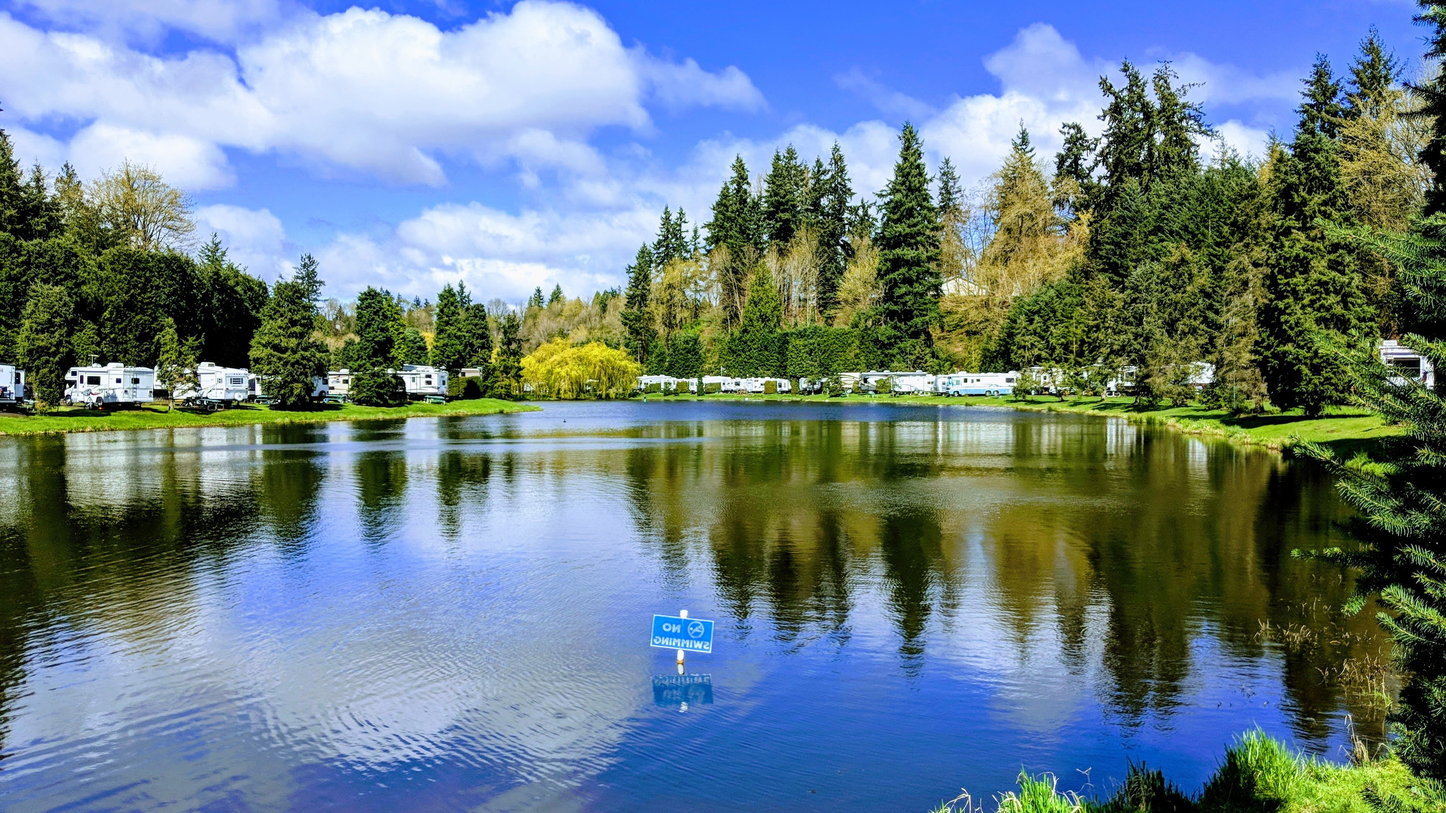
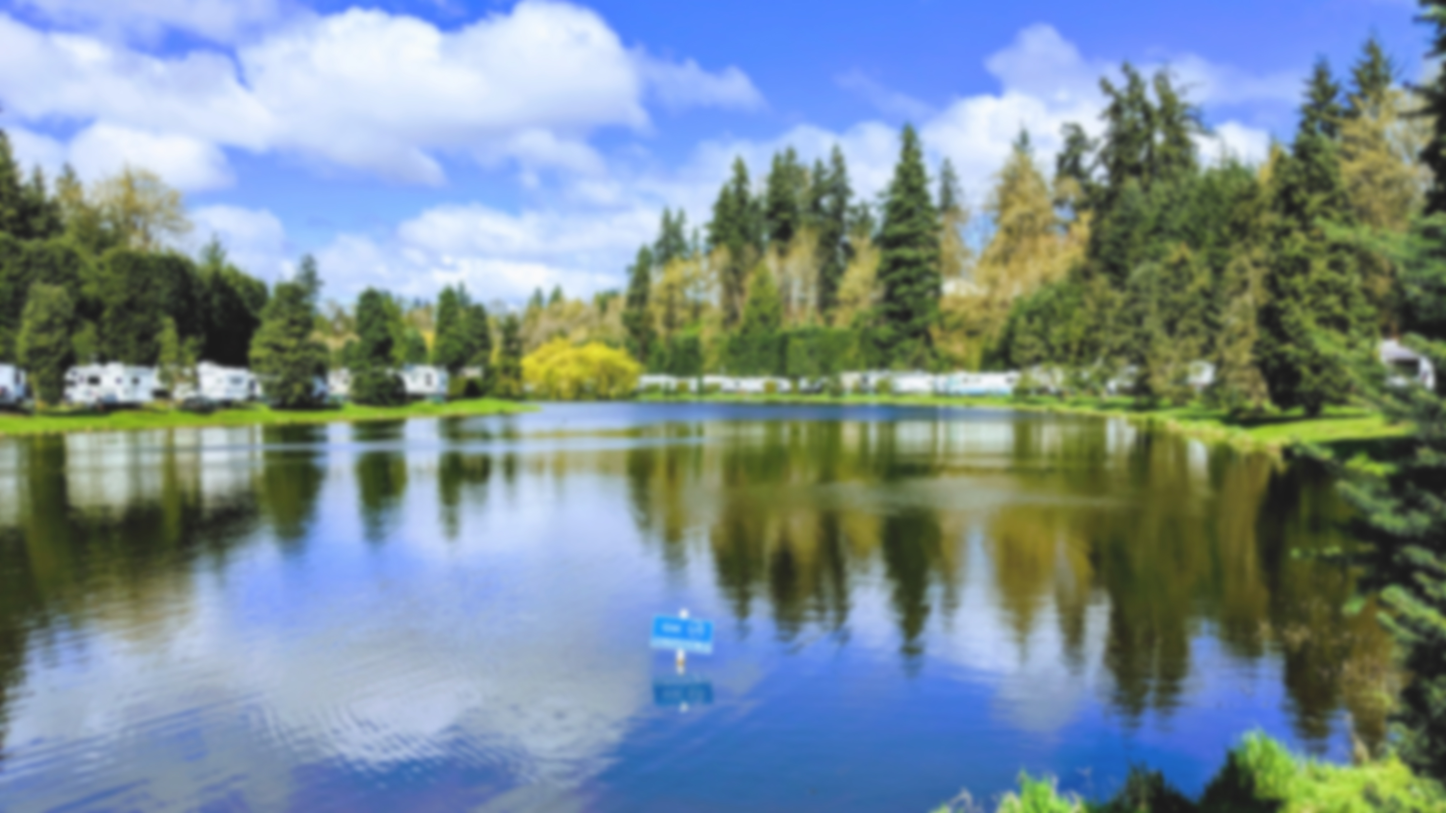
added global styles for header and changed headerbgimg to blur

diff --git a/css/global.css b/css/global.css
@@ -1,14 +1,50 @@
-/* For Header, Footer, and other global styles */
+/* For Header, Footer, font, background color, and other global styles */
 /* This includes global fonts, headings, paragraphs, etc  */
+
+/* Box sizing: border-box global reset */
+html {
+  box-sizing: border-box;
+}
+*, *:before, *:after {
+  box-sizing: inherit;
+}
+
+body {
+  margin: 0 auto;
+}
+
+body, html {
+  height: 100%;
+  margin: 0;
+}
+/* Header styles */
 header {
-    font-family: "Segoe UI", "Dejavu Sans", "Helvetica Neue", Arial, sans-serif;
-	background-color: rgba(255,255,255,.8);
-} 
+  font-family: "Segoe UI", "Dejavu Sans", "Helvetica Neue", Arial, sans-serif;
+  background-image: url("../img/headerbgimg.jpg");
+  position: center;
+  background-repeat: no-repeat;
+  background-size: cover;
+  color: white;
+  height: 100%;
+}
+
+header h1 {
+  font-size: 90px;
+  font-weight: bold;
+  font-style: italic;
+}
+
+header h2 {
+  font-size: 20px;
+  font-weight: bold;
+  font-style: italic;
+}
+
+/* Navigation Styles */
 nav {
-    font-family: "Segoe UI", "Dejavu Sans", "Helvetica Neue", Arial, sans-serif;
     font-size: 22px;
     line-height: 30px;
-    filter: drop-shadow(0 0 30px #333);
+    filter: drop-shadow(0 3 6px #333);
 }
 nav container {
     background-color: #72899E;
@@ -28,7 +64,7 @@ nav:active {
     font-weight: bold;
     line-height: 27px;
     letter-spacing: 50%;
-}  
+}
 #reservations {
     font-family: "Segoe UI", "Dejavu Sans", "Helvetica Neue", Arial, sans-serif;
     font-size: 20px;
@@ -41,7 +77,7 @@ nav:active {
     font-family: Bitter, Arial, sans-serif;
 }
 .content-container1 {
-    background-color: #FFF;
+    background-color: #FFFFFF;
 }
 .content-container2 {
     background-color: #EBEBEB;
@@ -52,7 +88,6 @@ nav:active {
     color: #A18C51;
     opacity: 1;
     font-style: italic;
-    letter-spacing: 100%;
     line-height: 72px;
     filter: drop-shadow(0 0 30px #333);
 }
@@ -61,7 +96,6 @@ nav:active {
     font-size: 20px;
     color: #464444;
     opacity: 1;
-    letter-spacing: 100%;
     line-height: 40px;
     filter: drop-shadow(0 0 30px #333);
 }
@@ -72,7 +106,6 @@ footer h1 {
     color: #A18C51;
     opacity: 100%;
     font-style: italic;
-    letter-spacing: 100;
     line-height: 48;
     filter: drop-shadow(0 0 30px #333);
 }
@@ -81,7 +114,6 @@ footer h2, p {
     font-size: 20px;
     color: #CCC;
     opacity: 90%;
-    letter-spacing: 100;
     line-height: 40;
     filter: drop-shadow(0 0 30px #333);
 }
@@ -99,5 +131,5 @@ Footer background image will be added to images as: footerbgimg
 Footer background image: opacity: 40%, blur: 50
 Footer middle column background color: #000438, opacity: 50%
 Google Map: border-color: #A18C51, border-radius: 40, add soft drop shadow
-Copyright container strip background color: #10133B 
+Copyright container strip background color: #10133B
 ***/

diff --git a/index.html b/index.html
@@ -10,7 +10,7 @@
 </head>
 <body>
   <header>
-    <img src="img/headerbgimg.jpg" alt="header background image" class="header-bg-img" style="width: 1920px; height:1080px">
+    <div class="headerbgimg"></div>
     <h1>Your Destination Resort</h1>
     <img src="img/lakepleasantlogo.png" alt="logo" class="lake-pleasant-logo">
     <h2>For Reservations Call (555) 555-5555</h2>
